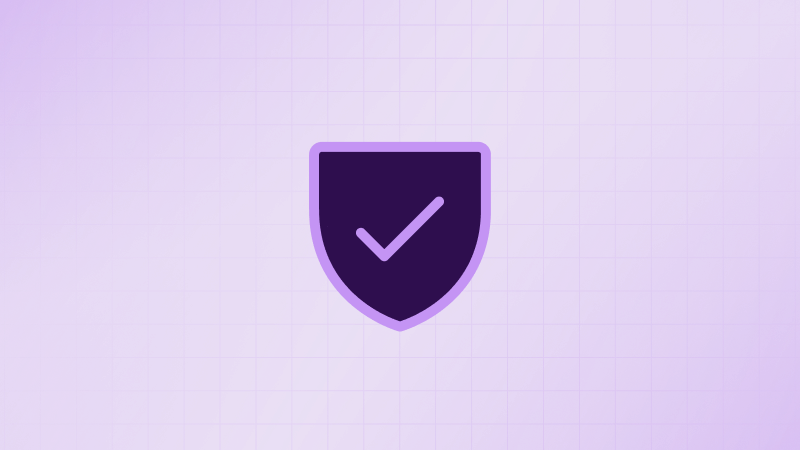
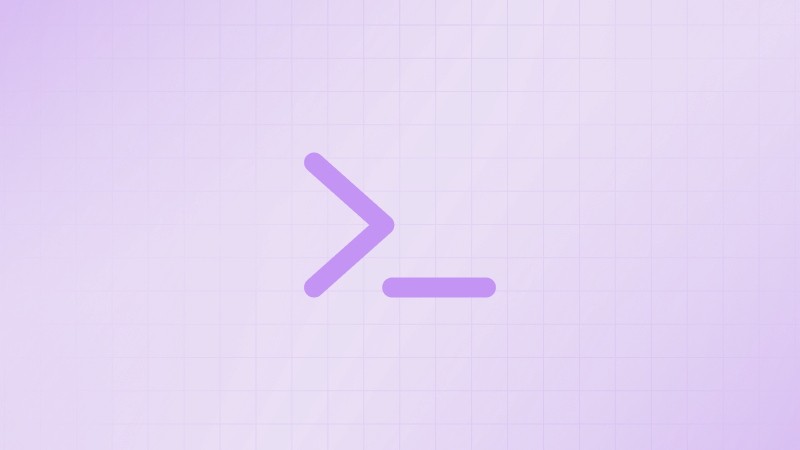
feat(dashboard): widget updates announcements (#696)
* feat(dashboard): update announcement card to Operation Roles
Update the dashboard announcement from Day-2 Actions to Operation-level
IAM roles, linking to the 031 changelog. Add light/dark images and
make the card non-dismissible.

* feat(dashboard): update announcement to 032 changelog and add header divider

---------

Changed region(s): [[0.375, 0.3111, 0.625, 0.7467]]

diff --git a/services/dashboard-ui/client/views/org/Dashbaord.tsx b/services/dashboard-ui/client/views/org/Dashbaord.tsx
@@ -99,7 +99,7 @@ export const Dashboard = () => {
   }))
 
   return (
-    <PageLayout className="pb-6" id={CONTAINER_ID} isScrollable>
+    <PageLayout className="divide-y pb-6" id={CONTAINER_ID} isScrollable>
       <PageTitle title={`Dashboard | ${org?.name}`} />
       <Breadcrumbs breadcrumbs={[{ path: `/${org?.id}`, text: org?.name }]} />
       <PageHeader>